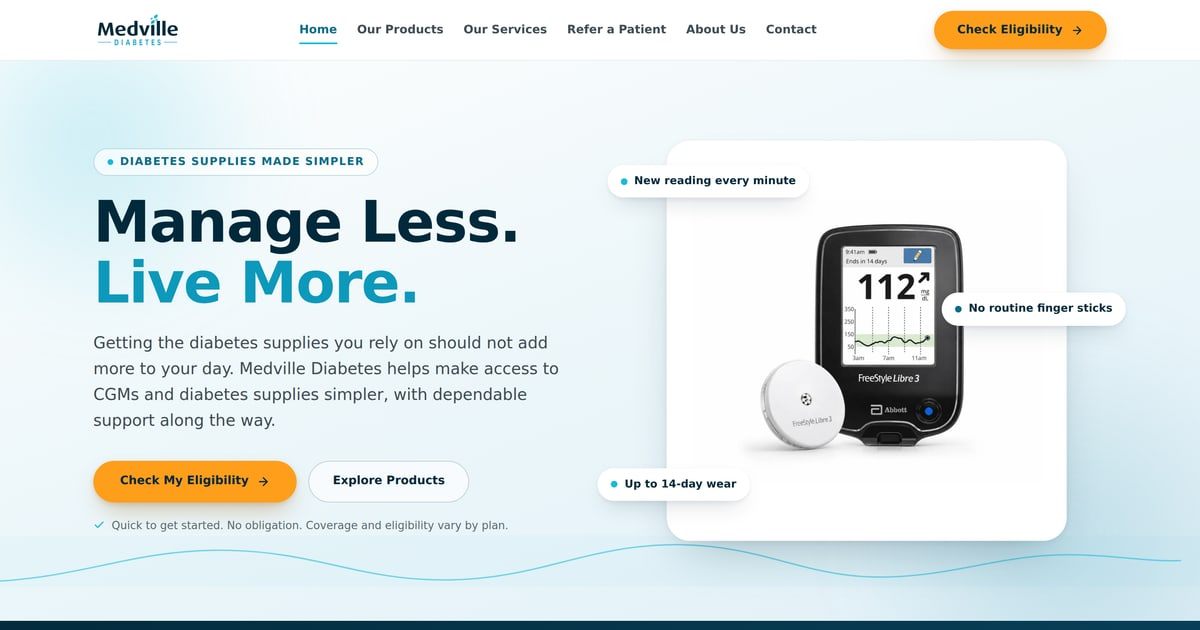
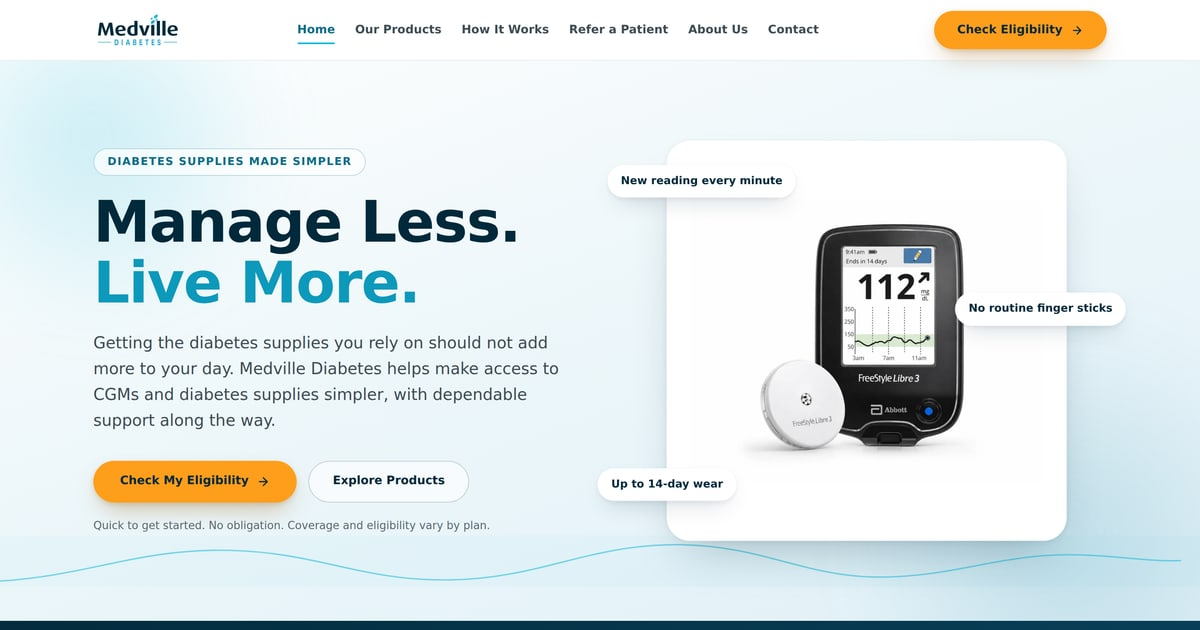
Make the shared-link preview card work: correct host, current hero (#10)
Every absolute address now names the Firebase host that actually serves
the site, because www.medvillediabetes.com is still parked at the
registrar and an og:image there returns no picture, so no card is drawn.
SITE_ORIGIN, the four copies in index.html and the robots.txt sitemap
line all move together and flip back in one line once the custom domain
is connected. The card image is rebuilt from the current hero.

diff --git a/index.html b/index.html
@@ -25,17 +25,21 @@
       which means every address on the site shares this one card. That is the
       intent: any link to the site previews as the home page hero.
 
-      These addresses must be absolute, so they name the production host
-      directly. If the domain ever changes, the canonical link, og:url,
-      og:image and twitter:image below all change with it.
+      These addresses must be absolute, so they name the host serving the site
+      directly. That is the Firebase host while www.medvillediabetes.com is
+      still parked at the registrar: an og:image on a name that does not serve
+      the file leaves a chat app with no picture and no card at all. When the
+      custom domain is connected, the canonical link, og:url, og:image and
+      twitter:image below all change with it, together with SITE_ORIGIN in
+      src/data/pageMeta.ts and the sitemap line in public/robots.txt.
     -->
-    <link rel="canonical" href="https://www.medvillediabetes.com/" />
+    <link rel="canonical" href="https://medville-diabetes.web.app/" />
     <meta property="og:type" content="website" />
     <meta property="og:site_name" content="Medville Diabetes" />
-    <meta property="og:url" content="https://www.medvillediabetes.com/" />
+    <meta property="og:url" content="https://medville-diabetes.web.app/" />
     <meta property="og:title" content="Medville Diabetes | CGMs &amp; Diabetes Supplies Made Simpler" />
     <meta property="og:description" content="Explore CGMs, insulin pumps, and diabetes supplies with support from Medville Diabetes. Check your potential CGM eligibility and learn what comes next." />
-    <meta property="og:image" content="https://www.medvillediabetes.com/og-image.jpg" />
+    <meta property="og:image" content="https://medville-diabetes.web.app/og-image.jpg" />
     <meta property="og:image:type" content="image/jpeg" />
     <meta property="og:image:width" content="1200" />
     <meta property="og:image:height" content="630" />
@@ -43,7 +47,7 @@
     <meta name="twitter:card" content="summary_large_image" />
     <meta name="twitter:title" content="Medville Diabetes | CGMs &amp; Diabetes Supplies Made Simpler" />
     <meta name="twitter:description" content="Explore CGMs, insulin pumps, and diabetes supplies with support from Medville Diabetes. Check your potential CGM eligibility and learn what comes next." />
-    <meta name="twitter:image" content="https://www.medvillediabetes.com/og-image.jpg" />
+    <meta name="twitter:image" content="https://medville-diabetes.web.app/og-image.jpg" />
   </head>
   <body>
     <div id="root"></div>

diff --git a/src/data/pageMeta.ts b/src/data/pageMeta.ts
@@ -28,7 +28,23 @@ export interface PageMeta {
   description: string;
 }
 
-export const SITE_ORIGIN = "https://www.medvillediabetes.com";
+/*
+  The host the site is actually served from, which is what every absolute
+  address below has to name: a canonical, an og:url or an og:image is only
+  useful if the machine reading it can fetch it.
+
+  This is the Firebase host rather than www.medvillediabetes.com because the
+  custom domain is not connected yet. The name resolves, but to the registrar's
+  parking page, so an og:image there answers with something that is not the
+  picture and a chat app draws no preview card at all. Pointing at the parked
+  name also aimed the preview's own link at that page rather than at the site.
+
+  When the custom domain is added in the Firebase console and the DNS records
+  are set at GoDaddy, change this one line back to
+  "https://www.medvillediabetes.com" and rebuild. The two hardcoded copies in
+  index.html and the one in public/robots.txt change with it.
+*/
+export const SITE_ORIGIN = "https://medville-diabetes.web.app";
 export const SITE_NAME = "Medville Diabetes";
 
 export const PAGE_META: Record<string, PageMeta> = {
